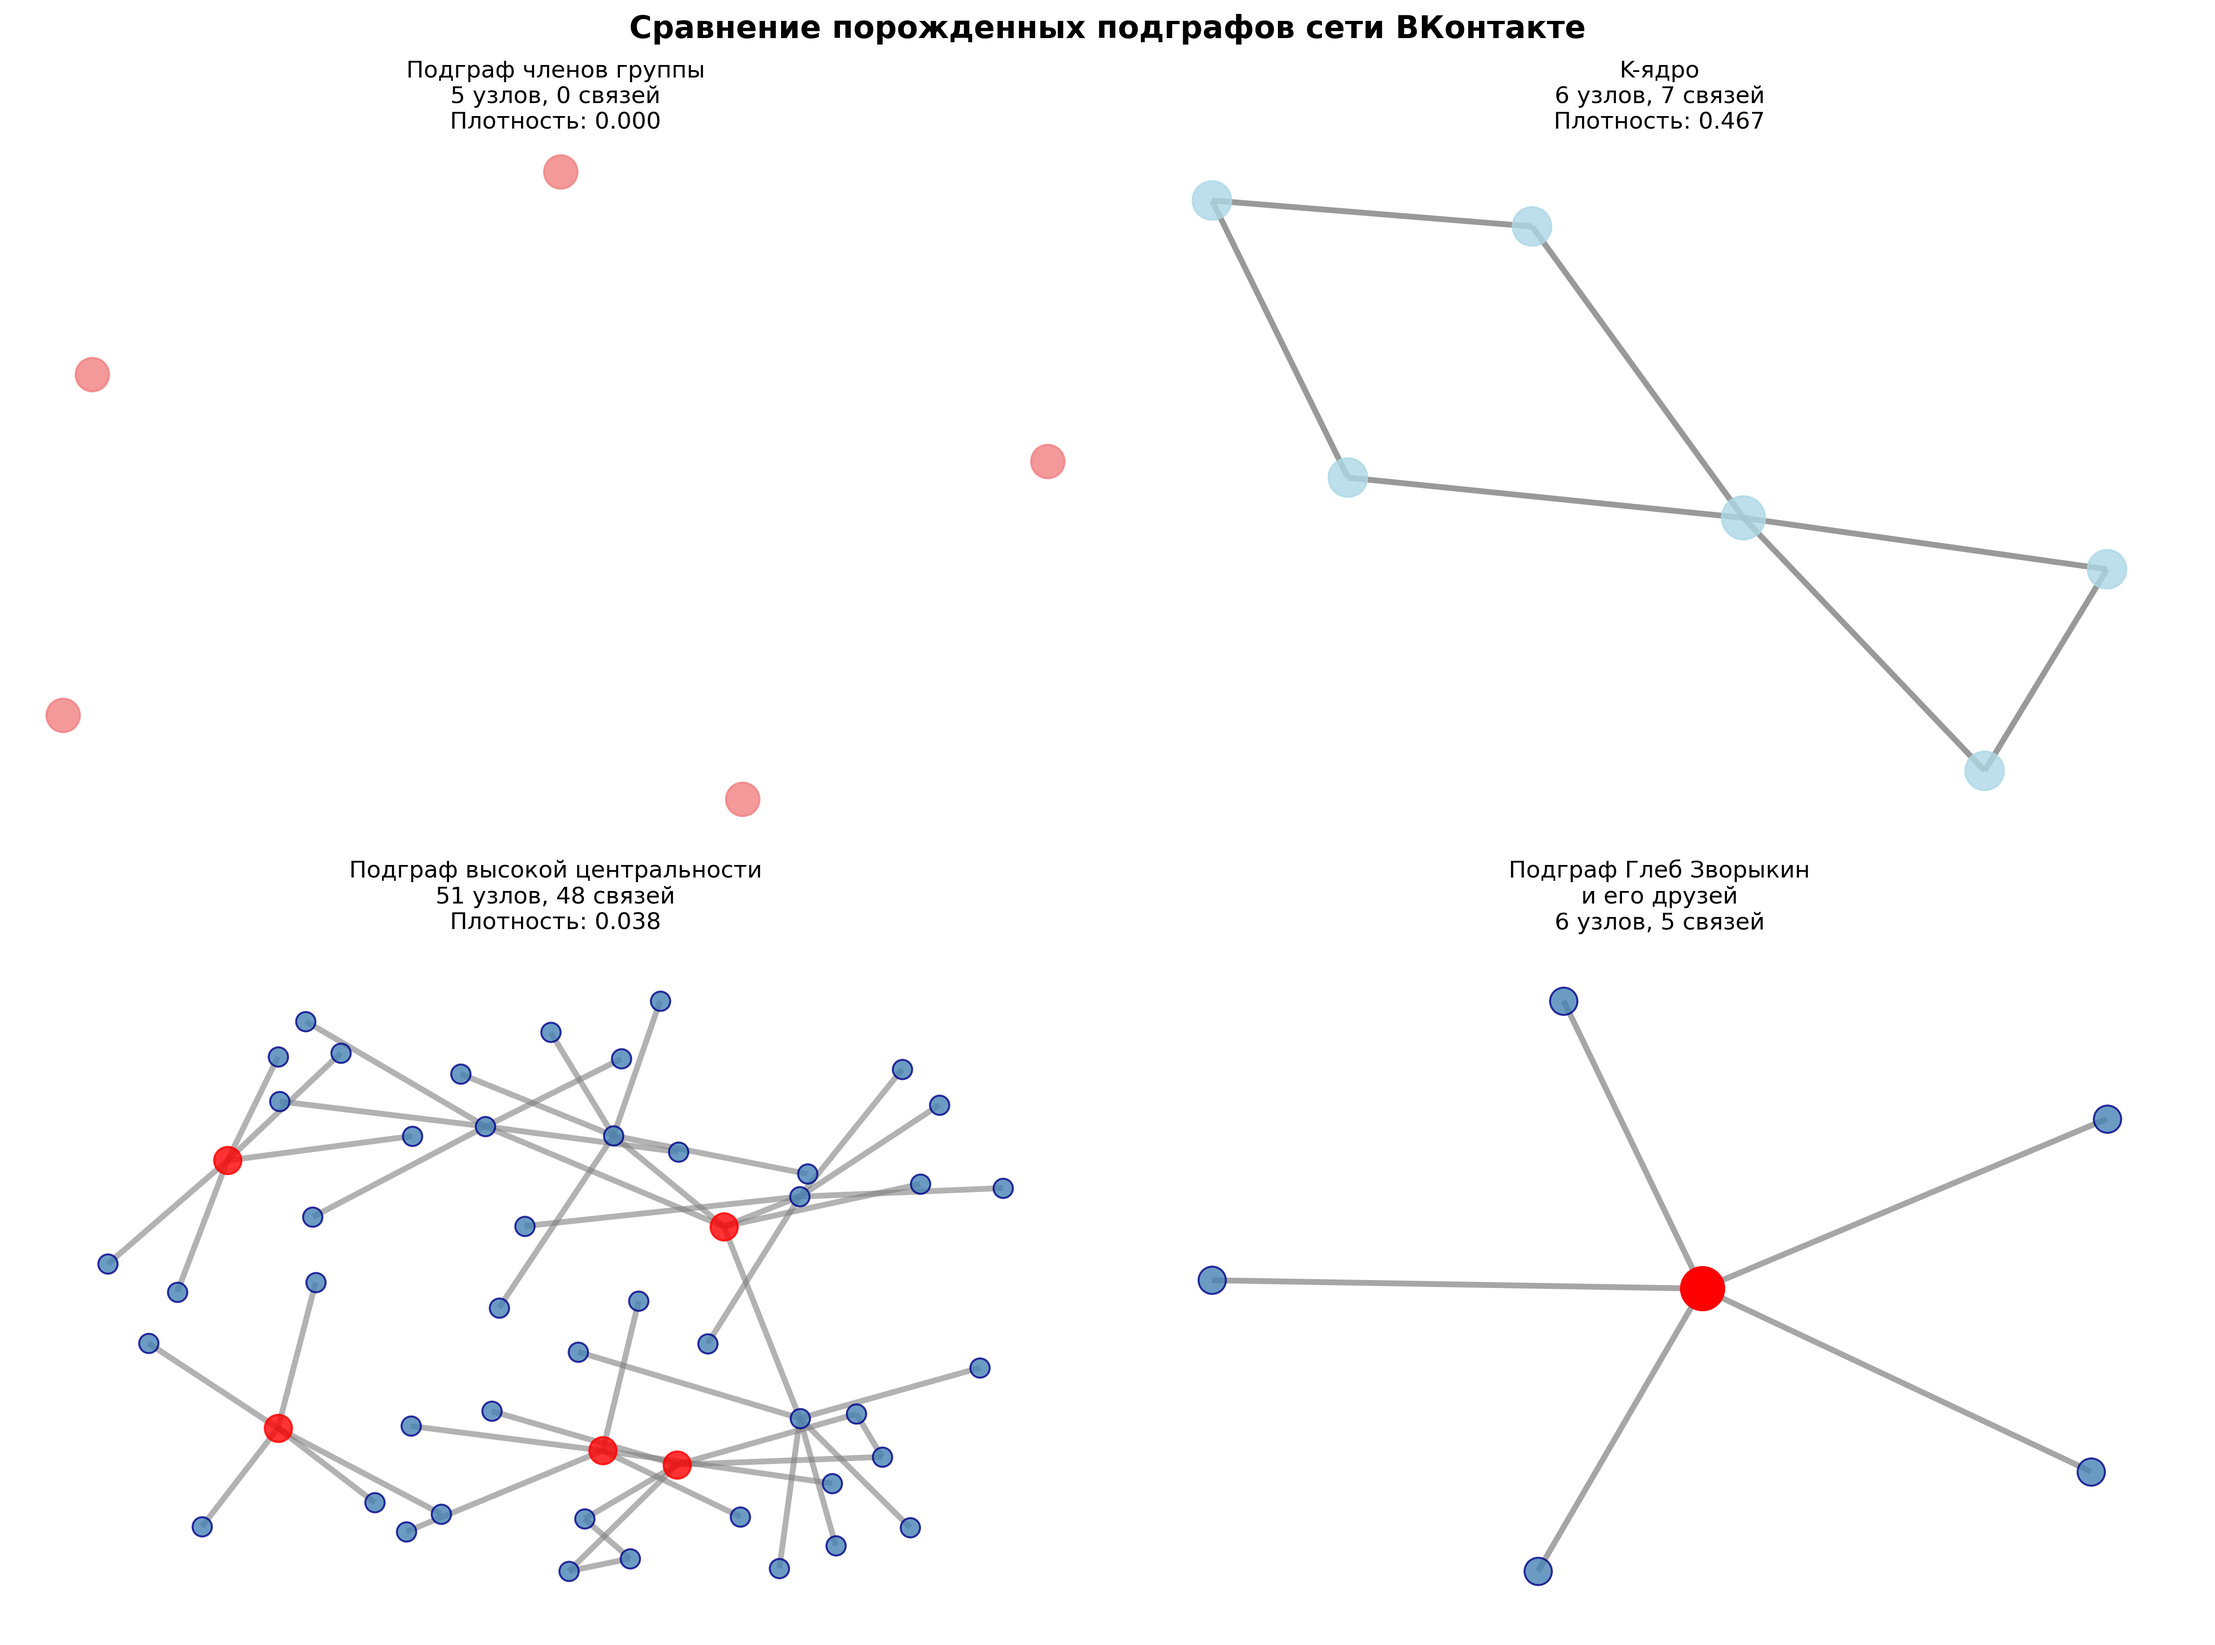
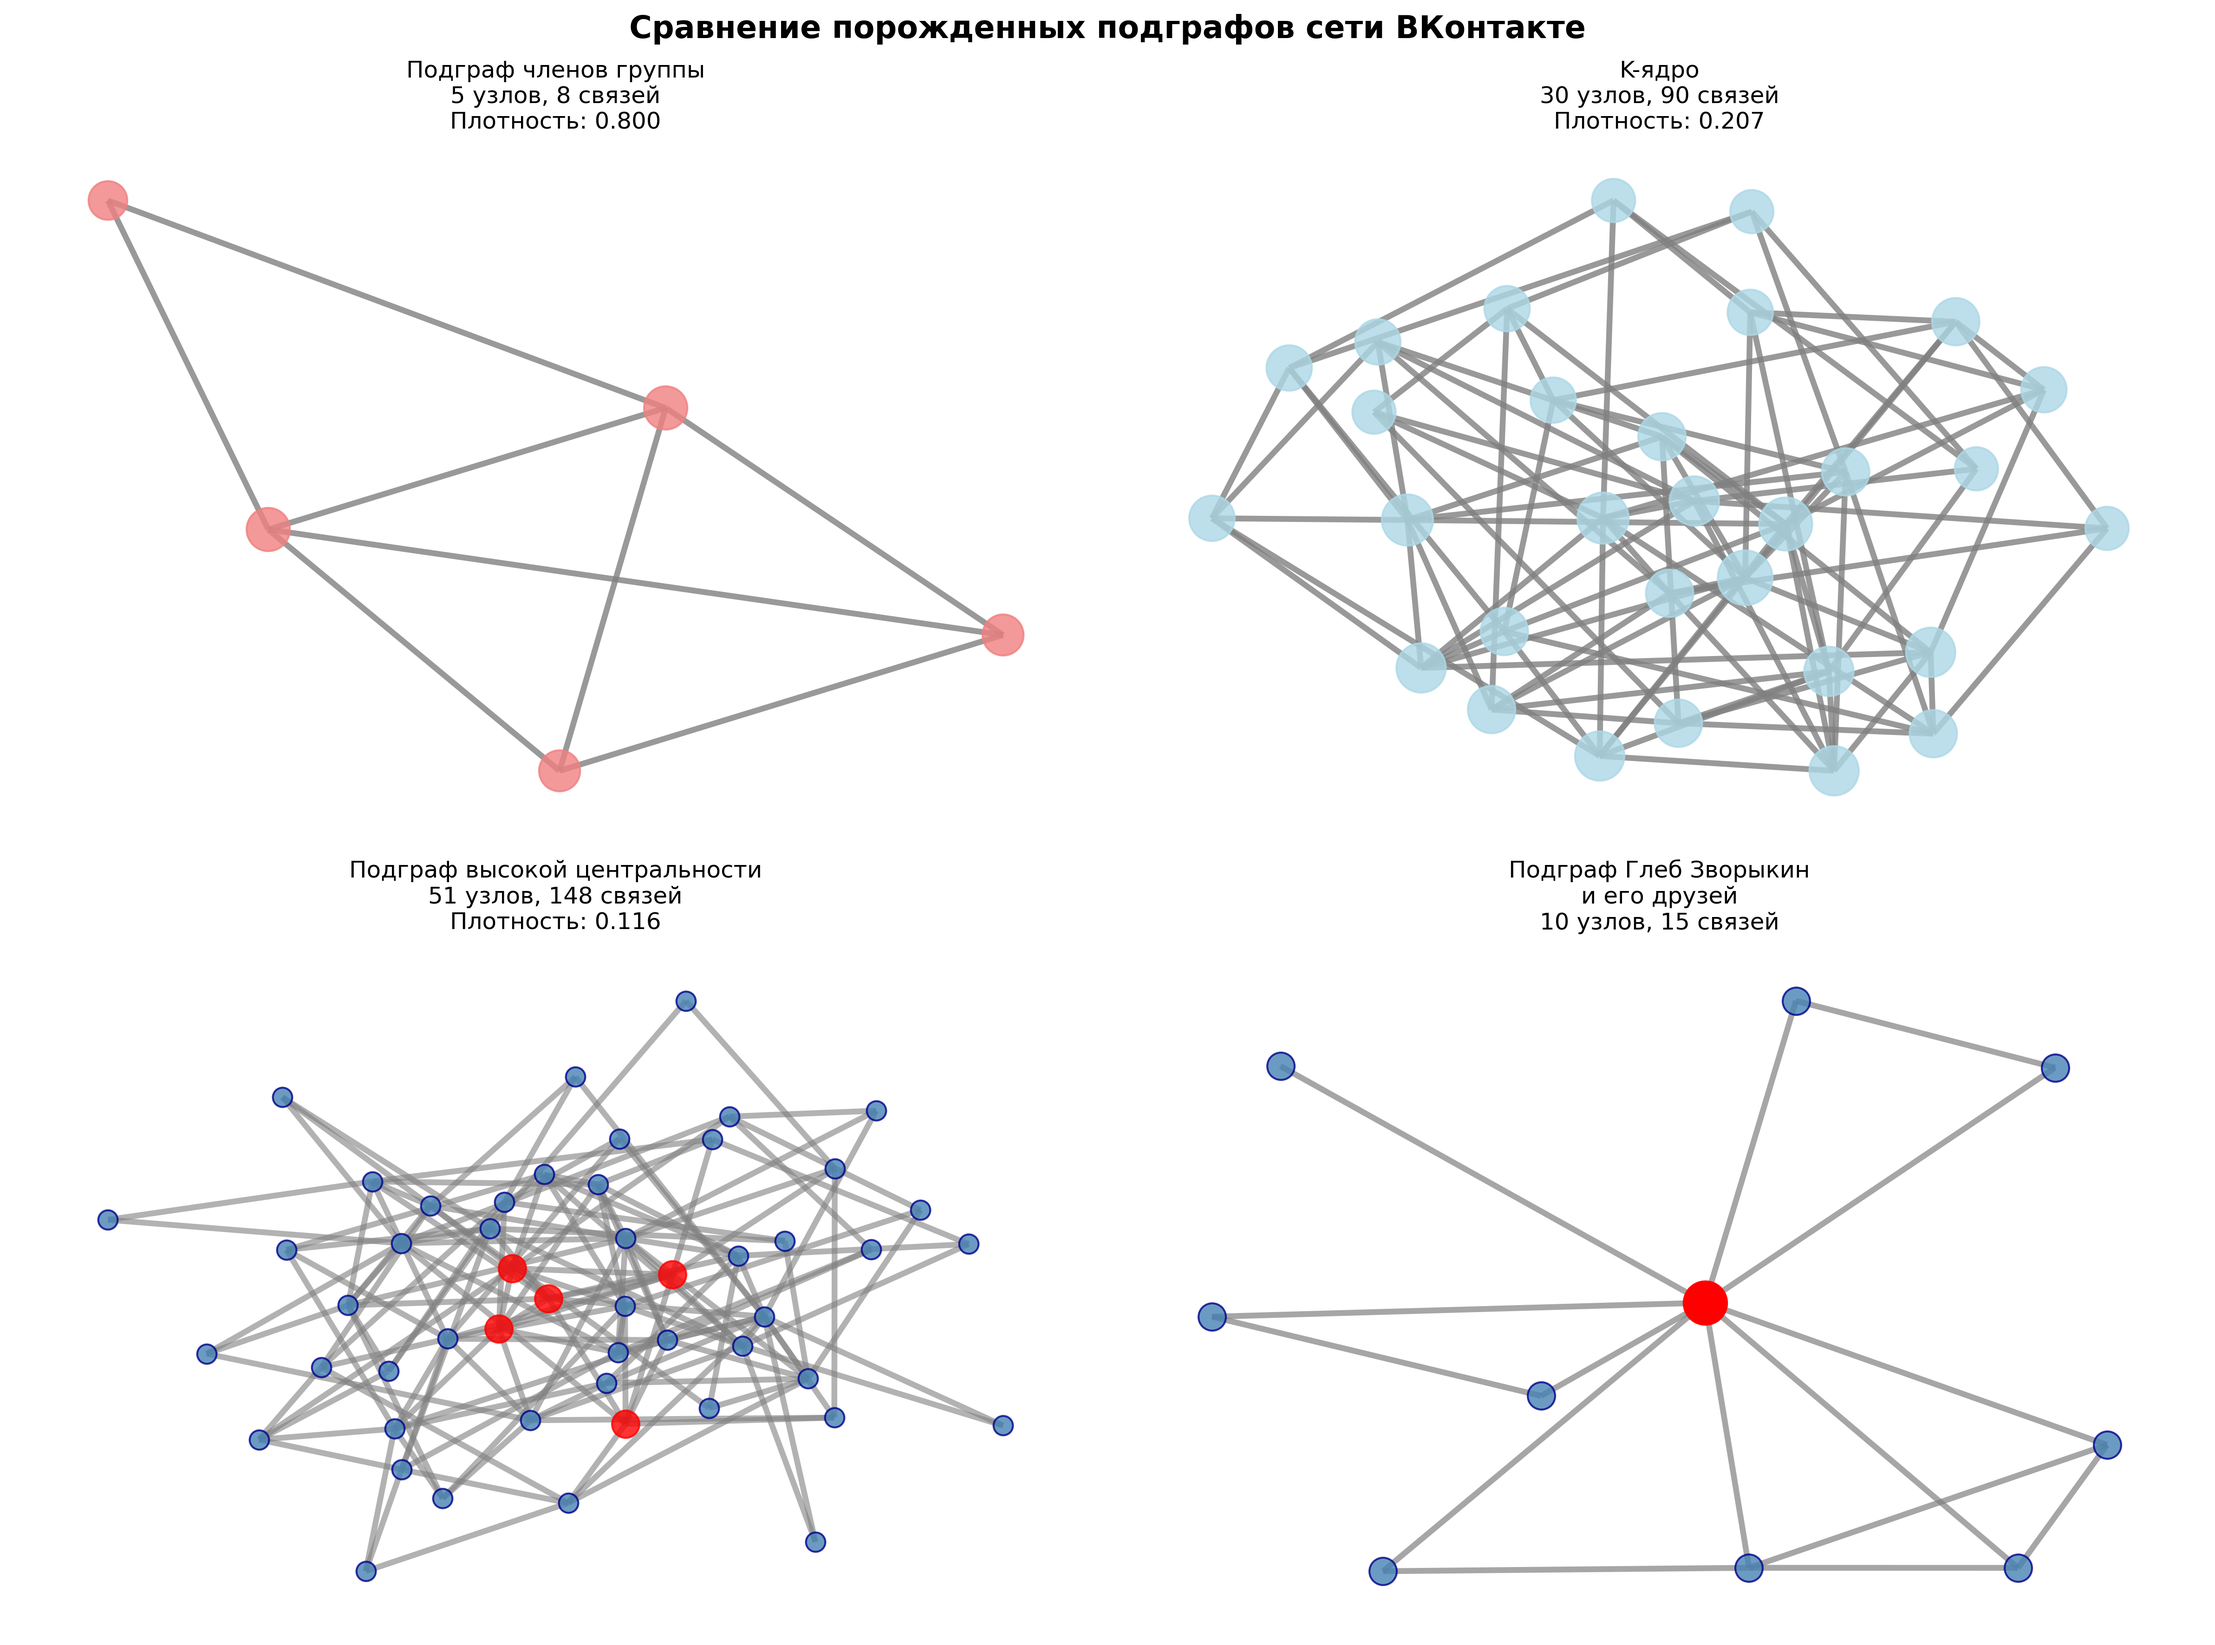
prac2_fix

diff --git a/prac_2/vk_friends_ip_dataset.py b/prac_2/vk_friends_ip_dataset.py
@@ -10,6 +10,7 @@ import matplotlib.pyplot as plt
 import pandas as pd
 from typing import Dict, List, Tuple
 import json
+import random
 
 class VKFriendsDataset:
     """Класс для анализа датасета друзей ВКонтакте из databaseFriends.json"""
@@ -108,7 +109,127 @@ class VKFriendsDataset:
         for member in self.members:
             add_person_to_network(member, is_group_member=True)
         
+        # Добавляем связи между членами группы (5-10 общих связей)
+        self._add_group_member_connections()
+        
+        # Добавляем сложные связи через промежуточных друзей
+        self._add_complex_connections()
+        
         print(f"Создана сеть из {self.friends_network.number_of_nodes()} узлов и {self.friends_network.number_of_edges()} связей")
+    
+    def _add_group_member_connections(self):
+        """Добавление связей между членами группы (5-10 общих связей)"""
+        group_member_ids = [str(m['id']) for m in self.members]
+        
+        if len(group_member_ids) < 2:
+            return
+        
+        # Определяем количество связей (5-10)
+        num_connections = random.randint(5, 10)
+        
+        # Создаем список всех возможных пар
+        possible_pairs = []
+        for i in range(len(group_member_ids)):
+            for j in range(i + 1, len(group_member_ids)):
+                possible_pairs.append((group_member_ids[i], group_member_ids[j]))
+        
+        # Случайно выбираем пары для создания связей
+        # Убеждаемся, что не создаем дубликаты
+        connections_added = 0
+        used_pairs = set()
+        
+        while connections_added < num_connections and len(used_pairs) < len(possible_pairs):
+            pair = random.choice(possible_pairs)
+            
+            if pair not in used_pairs:
+                member1_id, member2_id = pair
+                
+                # Добавляем связь, если её еще нет
+                if not self.friends_network.has_edge(member1_id, member2_id):
+                    self.friends_network.add_edge(member1_id, member2_id)
+                    connections_added += 1
+                    used_pairs.add(pair)
+        
+        print(f"Добавлено {connections_added} связей между членами группы")
+    
+    def _add_complex_connections(self):
+        """Добавление сложных связей через промежуточных друзей для создания путей между основными пользователями"""
+        group_member_ids = [str(m['id']) for m in self.members]
+        
+        if len(group_member_ids) < 2:
+            return
+        
+        connections_added = 0
+        
+        # Получаем друзей каждого члена группы
+        member_friends = {}
+        for member_id in group_member_ids:
+            friends = list(self.friends_network.neighbors(member_id))
+            # Фильтруем только друзей (не членов группы)
+            friends = [f for f in friends if f not in group_member_ids]
+            member_friends[member_id] = friends
+        
+        # Создаем связи между друзьями разных членов группы
+        # Это создаст пути: основной_пользователь1 -> друг1 -> друг2 -> основной_пользователь2
+        for i, member1_id in enumerate(group_member_ids):
+            for member2_id in group_member_ids[i+1:]:
+                friends1 = member_friends.get(member1_id, [])
+                friends2 = member_friends.get(member2_id, [])
+                
+                if not friends1 or not friends2:
+                    continue
+                
+                # Создаем 1-3 связи между друзьями разных членов группы
+                num_connections = random.randint(1, 3)
+                for _ in range(num_connections):
+                    if friends1 and friends2:
+                        friend1 = random.choice(friends1)
+                        friend2 = random.choice(friends2)
+                        
+                        # Добавляем связь между друзьями, если её еще нет
+                        if not self.friends_network.has_edge(friend1, friend2):
+                            self.friends_network.add_edge(friend1, friend2)
+                            connections_added += 1
+        
+        # Создаем связи между друзьями друзей (друзьями второго уровня)
+        # Это создаст более длинные пути: основной_пользователь1 -> друг1 -> друг_друга1 -> друг_друга2 -> друг2 -> основной_пользователь2
+        friends_of_friends_connections = 0
+        
+        # Для каждого члена группы берем его друзей
+        for member_id in group_member_ids:
+            friends = member_friends.get(member_id, [])
+            
+            # Для каждого друга находим его друзей (друзья друзей)
+            for friend_id in friends:
+                if friend_id not in self.friends_network:
+                    continue
+                
+                friends_of_friend = list(self.friends_network.neighbors(friend_id))
+                # Исключаем самого члена группы и других членов группы
+                friends_of_friend = [f for f in friends_of_friend 
+                                   if f != member_id and f not in group_member_ids]
+                
+                # Создаем связи между друзьями друзей разных членов группы
+                for other_member_id in group_member_ids:
+                    if other_member_id == member_id:
+                        continue
+                    
+                    other_friends = member_friends.get(other_member_id, [])
+                    
+                    # Создаем 1-2 связи между друзьями друзей
+                    num_connections = random.randint(0, 2)
+                    for _ in range(num_connections):
+                        if friends_of_friend and other_friends:
+                            friend_of_friend = random.choice(friends_of_friend)
+                            other_friend = random.choice(other_friends)
+                            
+                            # Добавляем связь, если её еще нет
+                            if not self.friends_network.has_edge(friend_of_friend, other_friend):
+                                self.friends_network.add_edge(friend_of_friend, other_friend)
+                                friends_of_friends_connections += 1
+        
+        total_connections = connections_added + friends_of_friends_connections
+        print(f"Добавлено {total_connections} сложных связей через промежуточных друзей ({connections_added} между друзьями, {friends_of_friends_connections} между друзьями друзей)")
     
     def create_induced_subgraphs(self) -> Dict[str, nx.Graph]:
         """Создание порожденных подграфов для различных подмножеств узлов"""
@@ -347,18 +468,18 @@ class VKFriendsDataset:
         if group_members:
             group_sizes = [node_sizes[i] for i, n in enumerate(self.friends_network.nodes()) if n in group_members]
             group_colors = [node_colors[i] for i, n in enumerate(self.friends_network.nodes()) if n in group_members]
-            nx.draw_networkx_nodes(self.friends_network, pos, 
-                                 nodelist=group_members,
+        nx.draw_networkx_nodes(self.friends_network, pos, 
+                             nodelist=group_members,
                                  node_size=group_sizes,
                                  node_color=group_colors,
-                                 cmap=plt.cm.Reds, alpha=0.8, edgecolors='black', linewidths=2)
+                             cmap=plt.cm.Reds, alpha=0.8, edgecolors='black', linewidths=2)
         
         # Рисуем узлы внешних друзей
         if external_friends:
             friend_sizes = [node_sizes[i] for i, n in enumerate(self.friends_network.nodes()) if n in external_friends]
             # Используем фиксированный синий цвет для друзей, чтобы они были хорошо видны
-            nx.draw_networkx_nodes(self.friends_network, pos,
-                                 nodelist=external_friends,
+        nx.draw_networkx_nodes(self.friends_network, pos,
+                             nodelist=external_friends,
                                  node_size=friend_sizes,
                                  node_color='steelblue',
                                  alpha=0.8, edgecolors='darkblue', linewidths=1)
